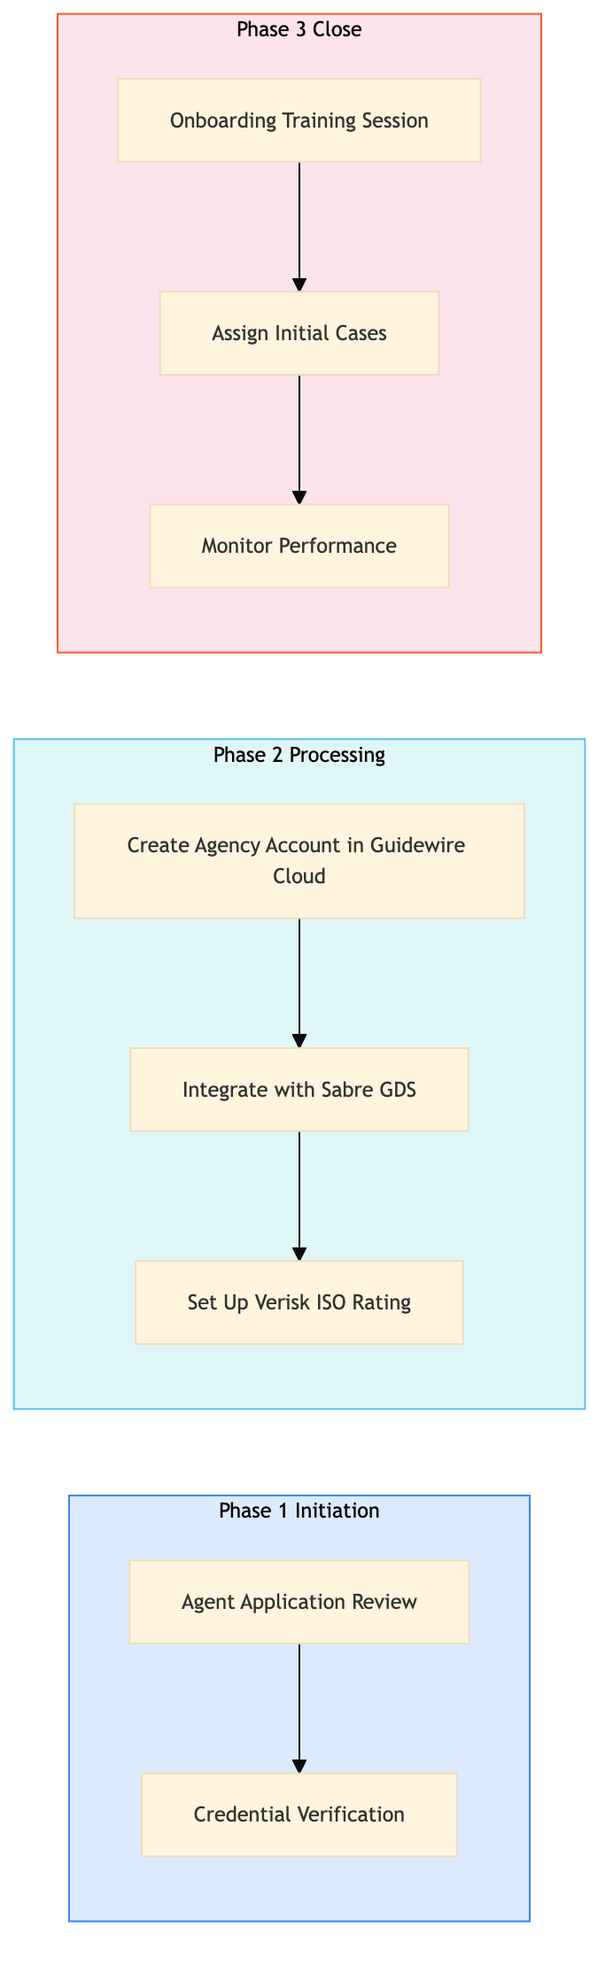
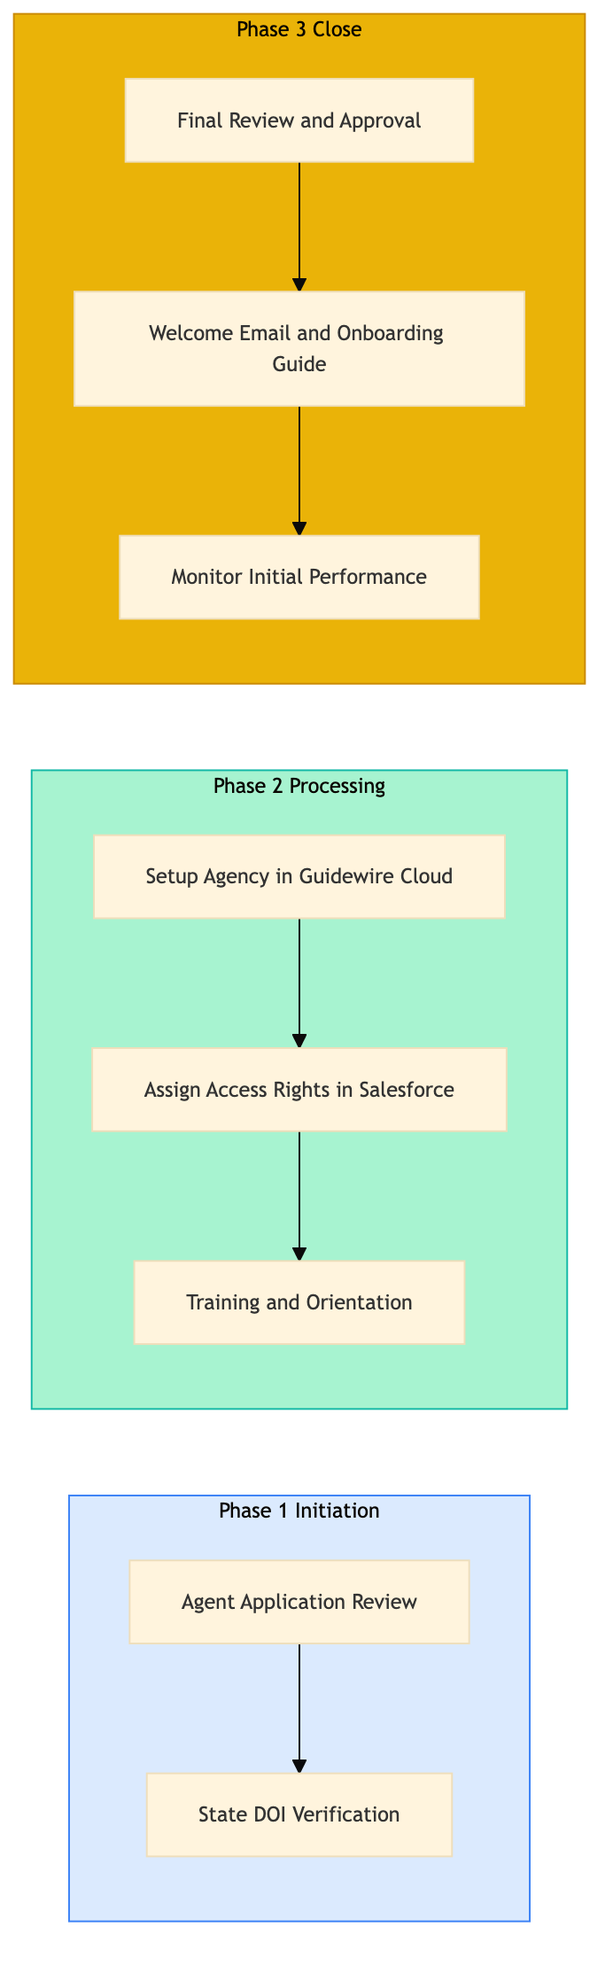
feat: add AAA-IN-AG-01 — Licensed Agent Appointment and Onboarding

diff --git a/aaa-insurance/agency-operations/aaa-in-ag-01.html b/aaa-insurance/agency-operations/aaa-in-ag-01.html
@@ -23,40 +23,16 @@
     <div class="nav-l2-group">
       <a class="nav-l2-title" href="../../shared-membership/membership-enrolment/index.html">Membership Enrolment & Sales</a>
       <div class="nav-l3-list">
-        <a class="nav-l3" href="../../shared-membership/membership-enrolment/shared-mb-en-01.html">SHARED-MB-EN-01 &mdash; New Member Walk-In Enrolment (Branch)</a>
-        <a class="nav-l3" href="../../shared-membership/membership-enrolment/shared-mb-en-02.html">SHARED-MB-EN-02 &mdash; Online Membership Self-Enrolment (Web/Ap</a>
-        <a class="nav-l3" href="../../shared-membership/membership-enrolment/shared-mb-en-03.html">SHARED-MB-EN-03 &mdash; Phone Enrolment via Contact Centre</a>
-        <a class="nav-l3" href="../../shared-membership/membership-enrolment/shared-mb-en-04.html">SHARED-MB-EN-04 &mdash; Affiliate and Employer Group Enrolment</a>
-        <a class="nav-l3" href="../../shared-membership/membership-enrolment/shared-mb-en-05.html">SHARED-MB-EN-05 &mdash; Membership Tier Selection and Upsell</a>
-        <a class="nav-l3" href="../../shared-membership/membership-enrolment/shared-mb-en-06.html">SHARED-MB-EN-06 &mdash; Payment Processing and First-Year Billin</a>
-        <a class="nav-l3" href="../../shared-membership/membership-enrolment/shared-mb-en-07.html">SHARED-MB-EN-07 &mdash; Welcome Kit and Digital Card Issuance</a>
-        <a class="nav-l3" href="../../shared-membership/membership-enrolment/shared-mb-en-08.html">SHARED-MB-EN-08 &mdash; Duplicate Member Detection and Merge</a>
       </div>
     </div>
     <div class="nav-l2-group">
       <a class="nav-l2-title" href="../../shared-membership/membership-renewal/index.html">Membership Renewal & Retention</a>
       <div class="nav-l3-list">
-        <a class="nav-l3" href="../../shared-membership/membership-renewal/shared-mb-rn-01.html">SHARED-MB-RN-01 &mdash; Annual Renewal Notice Generation and Dis</a>
-        <a class="nav-l3" href="../../shared-membership/membership-renewal/shared-mb-rn-02.html">SHARED-MB-RN-02 &mdash; Auto-Renewal Processing (Credit Card on </a>
-        <a class="nav-l3" href="../../shared-membership/membership-renewal/shared-mb-rn-03.html">SHARED-MB-RN-03 &mdash; Lapsed Member Reinstatement Campaign</a>
-        <a class="nav-l3" href="../../shared-membership/membership-renewal/shared-mb-rn-04.html">SHARED-MB-RN-04 &mdash; Membership Upgrade and Tier Change Proce</a>
-        <a class="nav-l3" href="../../shared-membership/membership-renewal/shared-mb-rn-05.html">SHARED-MB-RN-05 &mdash; Associate and Household Member Add-On Pr</a>
-        <a class="nav-l3" href="../../shared-membership/membership-renewal/shared-mb-rn-06.html">SHARED-MB-RN-06 &mdash; Cancellation Request Handling and Save O</a>
-        <a class="nav-l3" href="../../shared-membership/membership-renewal/shared-mb-rn-07.html">SHARED-MB-RN-07 &mdash; Renewal Rate Review and Pricing Update</a>
-        <a class="nav-l3" href="../../shared-membership/membership-renewal/shared-mb-rn-08.html">SHARED-MB-RN-08 &mdash; Membership Winback Campaign (12-36 Month</a>
       </div>
     </div>
     <div class="nav-l2-group">
       <a class="nav-l2-title" href="../../shared-membership/member-services/index.html">Member Services & Benefits</a>
       <div class="nav-l3-list">
-        <a class="nav-l3" href="../../shared-membership/member-services/shared-mb-sv-01.html">SHARED-MB-SV-01 &mdash; Member Discount Partner Redemption</a>
-        <a class="nav-l3" href="../../shared-membership/member-services/shared-mb-sv-02.html">SHARED-MB-SV-02 &mdash; Passport Photo Service Delivery (Branch)</a>
-        <a class="nav-l3" href="../../shared-membership/member-services/shared-mb-sv-03.html">SHARED-MB-SV-03 &mdash; International Driving Permit (IDP) Proce</a>
-        <a class="nav-l3" href="../../shared-membership/member-services/shared-mb-sv-04.html">SHARED-MB-SV-04 &mdash; Notary and Document Authentication Servi</a>
-        <a class="nav-l3" href="../../shared-membership/member-services/shared-mb-sv-05.html">SHARED-MB-SV-05 &mdash; Member Portal Profile and Preferences Ma</a>
-        <a class="nav-l3" href="../../shared-membership/member-services/shared-mb-sv-06.html">SHARED-MB-SV-06 &mdash; Lost and Stolen Membership Card Replacem</a>
-        <a class="nav-l3" href="../../shared-membership/member-services/shared-mb-sv-07.html">SHARED-MB-SV-07 &mdash; Member Data Privacy Request (CCPA and PI</a>
-        <a class="nav-l3" href="../../shared-membership/member-services/shared-mb-sv-08.html">SHARED-MB-SV-08 &mdash; Member Satisfaction Survey and NPS Track</a>
       </div>
     </div>
   </div>
@@ -304,7 +280,7 @@
           <span class="pid-badge org-badge-aaa">AAA</span>
           AAA-IN-AG-01 &mdash; Licensed Agent Appointment and Onboarding
         </h1>
-        <p>This process outlines the steps for appointing and onboarding licensed agents within AAA Northeast. It involves verifying agent credentials, setting up agency accounts in Guidewire Cloud, and integrating with other systems like Sabre GDS and Verisk ISO rating.</p>
+        <p>The process for appointing and onboarding licensed agents within AAA Northeast involves verifying agent credentials, setting up agency records in Guidewire Cloud, and ensuring compliance with state insurance regulations.</p>
       </div>
 
       <!-- BPMN Diagram -->
@@ -330,10 +306,10 @@
             <tr><th>L1 Domain</th><td>AAA Insurance</td></tr>
             <tr><th>L2 Process</th><td>Insurance Agency Operations</td></tr>
             <tr><th>L3 Name</th><td>Licensed Agent Appointment and Onboarding</td></tr>
-            <tr><th>Trigger</th><td>A request from a potential agent to be appointed or an internal decision to onboard a new agent.</td></tr>
-            <tr><th>Outcome</th><td>Successful completion results in the licensed agent being fully integrated into AAA Northeast's operations, with access to necessary systems and processes for conducting business.</td></tr>
-            <tr><th>Org Notes</th><td>AAA Northeast focuses on state DOI compliance and utilizes Guidewire Cloud extensively. The process is more streamlined compared to CAA due to differences in regulatory requirements and system configurations.</td></tr>
-            <tr><th>Systems</th><td><span class="sys-tag guidewire">Guidewire PolicyCenter/ClaimCenter/BillingCenter (Cloud)</span> <span class="sys-tag salesforce">Salesforce (Einstein AI, Agentforce)</span> <span class="sys-tag sabre">Sabre GDS</span> <span class="sys-tag verisk">Verisk ISO rating</span></td></tr>
+            <tr><th>Trigger</th><td>Submission of a new agent application by an individual or through an existing agency.</td></tr>
+            <tr><th>Outcome</th><td>A fully onboarded licensed agent with access to necessary systems and processes for conducting business within AAA Northeast.</td></tr>
+            <tr><th>Org Notes</th><td>AAA Northeast focuses on direct agent appointments and uses the Guidewire Cloud platform extensively, whereas CAA may have different workflows involving more centralized management of agents.</td></tr>
+            <tr><th>Systems</th><td><span class="sys-tag guidewire">Guidewire PolicyCenter/ClaimCenter/BillingCenter</span> <span class="sys-tag salesforce">Salesforce</span> <span class="sys-tag sys-generic">State DOI API</span> <span class="sys-tag sys-generic">IT Systems</span></td></tr>
           </table>
         </div>
       </div>
@@ -355,98 +331,98 @@
         <tr>
           <td class="step-num">1.1</td>
           <td>Agent Application Review</td>
-          <td>Agent Recruitment Specialist</td>
-          <td><span class="sys-tag salesforce">Salesforce (Einstein AI, Agentforce)</span></td>
-          <td>Agent application form</td>
+          <td>Insurance Compliance Officer</td>
+          <td><span class="sys-tag salesforce">Salesforce</span></td>
+          <td>New agent application form</td>
           <td>Application review report</td>
-          <td>Application review time < 3 business days</td>
-          <td>Delays in application processing</td>
+          <td>Application review time < 5 business days</td>
+          <td>Delays in processing applications due to manual reviews.</td>
           <td><span class="decision-y">Y</span></td>
           <td>N</td>
         </tr>
         <tr>
           <td class="step-num">1.2</td>
-          <td>Credential Verification</td>
-          <td>Agent Compliance Officer</td>
-          <td><span class="sys-tag sys-generic">State DOI database</span></td>
-          <td>Application review report</td>
-          <td>Verification report</td>
-          <td>Credential verification time < 5 business days</td>
-          <td>Inaccurate or delayed credential checks</td>
+          <td>State DOI Verification</td>
+          <td>Insurance Compliance Officer</td>
+          <td><span class="sys-tag sys-generic">State DOI API</span></td>
+          <td>Agent license details</td>
+          <td>Verification status report</td>
+          <td>95% successful verification rate within 3 business days</td>
+          <td>Inaccurate or outdated state license data.</td>
           <td><span class="decision-y">Y</span></td>
           <td>N</td>
         </tr>
         <tr>
           <td class="step-num">2.1</td>
-          <td>Create Agency Account in Guidewire Cloud</td>
+          <td>Setup Agency in Guidewire Cloud</td>
           <td>IT Administrator</td>
-          <td><span class="sys-tag guidewire">Guidewire PolicyCenter/ClaimCenter/BillingCenter (Cloud)</span></td>
-          <td>Verification report</td>
-          <td>Agency account setup confirmation</td>
-          <td>Account creation time < 2 business days</td>
-          <td>System integration issues</td>
+          <td><span class="sys-tag guidewire">Guidewire PolicyCenter/ClaimCenter/BillingCenter</span></td>
+          <td>Verified agent details</td>
+          <td>Agency record setup in Guidewire</td>
+          <td>100% successful agency setup within 2 business days</td>
+          <td>Technical issues during system integration.</td>
           <td>N</td>
           <td><span class="exception-y">Y</span></td>
         </tr>
         <tr>
           <td class="step-num">2.2</td>
-          <td>Integrate with Sabre GDS</td>
+          <td>Assign Access Rights in Salesforce</td>
           <td>IT Administrator</td>
-          <td><span class="sys-tag sabre">Sabre GDS</span></td>
-          <td>Agency account setup confirmation</td>
-          <td>Integration success message</td>
-          <td>Integration time < 1 business day</td>
-          <td>Data synchronization errors</td>
+          <td><span class="sys-tag salesforce">Salesforce</span></td>
+          <td>Agent details and role assignments</td>
+          <td>Access rights configured in Salesforce</td>
+          <td>100% successful access assignment within 1 business day</td>
+          <td>Security breaches due to improper access management.</td>
           <td>N</td>
           <td><span class="exception-y">Y</span></td>
         </tr>
         <tr>
           <td class="step-num">2.3</td>
-          <td>Set Up Verisk ISO Rating</td>
-          <td>Risk Analyst</td>
-          <td><span class="sys-tag verisk">Verisk ISO rating</span></td>
-          <td>Agency account setup confirmation</td>
-          <td>Rating configuration report</td>
-          <td>Rating setup time < 1 business day</td>
-          <td>Inaccurate rating calculations</td>
+          <td>Training and Orientation</td>
+          <td>Agent Training Coordinator</td>
+          <td><span class="sys-tag salesforce">Salesforce Einstein AI, Agentforce</span></td>
+          <td>Agent profile and training materials</td>
+          <td>Training completion certificate</td>
+          <td>90% agent satisfaction with training program</td>
+          <td>Low engagement in training sessions.</td>
           <td>N</td>
           <td><span class="exception-y">Y</span></td>
         </tr>
         <tr>
           <td class="step-num">3.1</td>
-          <td>Onboarding Training Session</td>
-          <td>Agent Trainer</td>
-          <td><span class="sys-tag salesforce">Salesforce (Einstein AI, Agentforce)</span></td>
-          <td>Integration success message</td>
-          <td>Training completion certificate</td>
-          <td>Training session duration < 4 hours</td>
-          <td>Low training attendance</td>
+          <td>Final Review and Approval</td>
+          <td>Regional Manager</td>
+          <td><span class="sys-tag guidewire">Guidewire PolicyCenter/ClaimCenter/BillingCenter, Salesforce</span></td>
+          <td>Training completion certificate and agency setup details</td>
+          <td>Onboarding approval letter</td>
+          <td>100% successful onboarding approvals within 2 business days</td>
+          <td>Delays in final approvals due to administrative bottlenecks.</td>
           <td>N</td>
           <td><span class="exception-y">Y</span></td>
         </tr>
         <tr>
           <td class="step-num">3.2</td>
-          <td>Assign Initial Cases</td>
-          <td>Claims Adjuster</td>
-          <td><span class="sys-tag guidewire">Guidewire ClaimCenter</span></td>
-          <td>Training completion certificate</td>
-          <td>Case assignment confirmation</td>
-          <td>Initial case assignment within 1 business day</td>
-          <td>Overloaded caseload for new agents</td>
+          <td>Welcome Email and Onboarding Guide</td>
+          <td>Agent Support Specialist</td>
+          <td><span class="sys-tag salesforce">Salesforce, Email Marketing System</span></td>
+          <td>Onboarding approval letter</td>
+          <td>Sent welcome email with onboarding guide</td>
+          <td>95% open rate for welcome emails within 1 business day</td>
+          <td>Low engagement from new agents post-onboarding.</td>
           <td>N</td>
           <td><span class="exception-y">Y</span></td>
         </tr>
         <tr>
           <td class="step-num">3.3</td>
-          <td>Monitor Performance</td>
-          <td>Agent Manager</td>
-          <td><span class="sys-tag guidewire">Guidewire PolicyCenter/ClaimCenter/BillingCenter (Cloud)</span></td>
-          <td>Case assignment confirmation</td>
-          <td>Performance report</td>
-          <td>First case closure within 7 days of assignment</td>
-          <td>Slow initial performance</td>
+          <td>Monitor Initial Performance</td>
+          <td>Agent Performance Analyst</td>
+          <td><span class="sys-tag guidewire">Guidewire PolicyCenter/ClaimCenter/BillingCenter, Salesforce</span></td>
+          <td>Onboarding approval letter</td>
+          <td>Performance metrics report</td>
+          <td>90% agent performance targets met within first month</td>
+          <td>Underperformance of new agents affecting overall business outcomes.</td>
+          <td><span class="decision-y">Y</span></td>
           <td>N</td>
-          <td><span class="exception-y">Y</span></td>
         </tr>
               </tbody>
             </table>
@@ -459,9 +435,9 @@
         <div class="card-header">&#x1F4CA; KPIs &amp; Risk Register</div>
         <div class="card-body">
           <p class="mb-8"><strong>KPIs</strong></p>
-          <div class="kpi-list mb-8"><span class="kpi-pill">Application review time < 3 business days</span> <span class="kpi-pill">Credential verification time < 5 business days</span> <span class="kpi-pill">Account creation time < 2 business days</span> <span class="kpi-pill">Integration time < 1 business day</span> <span class="kpi-pill">Rating setup time < 1 business day</span></div>
+          <div class="kpi-list mb-8"><span class="kpi-pill">Application review time < 5 business days</span> <span class="kpi-pill">95% successful verification rate within 3 business days</span> <span class="kpi-pill">100% successful agency setup within 2 business days</span> <span class="kpi-pill">100% successful access assignment within 1 business day</span> <span class="kpi-pill">90% agent satisfaction with training program</span></div>
           <p class="mb-8" style="margin-top:16px"><strong>Key Risks</strong></p>
-          <div class="kpi-list"><span class="risk-pill">Delays in application processing</span> <span class="risk-pill">Inaccurate or delayed credential checks</span> <span class="risk-pill">System integration issues</span> <span class="risk-pill">Data synchronization errors</span> <span class="risk-pill">Low training attendance</span></div>
+          <div class="kpi-list"><span class="risk-pill">Delays in processing applications due to manual reviews.</span> <span class="risk-pill">Inaccurate or outdated state license data.</span> <span class="risk-pill">Technical issues during system integration.</span> <span class="risk-pill">Security breaches due to improper access management.</span> <span class="risk-pill">Low engagement from new agents post-onboarding.</span></div>
         </div>
       </div>
 

diff --git a/aaa-insurance/agency-operations/index.html b/aaa-insurance/agency-operations/index.html
@@ -21,40 +21,16 @@
     <div class="nav-l2-group">
       <a class="nav-l2-title" href="../../shared-membership/membership-enrolment/index.html">Membership Enrolment & Sales</a>
       <div class="nav-l3-list">
-        <a class="nav-l3" href="../../shared-membership/membership-enrolment/shared-mb-en-01.html">SHARED-MB-EN-01 &mdash; New Member Walk-In Enrolment (Branch)</a>
-        <a class="nav-l3" href="../../shared-membership/membership-enrolment/shared-mb-en-02.html">SHARED-MB-EN-02 &mdash; Online Membership Self-Enrolment (Web/Ap</a>
-        <a class="nav-l3" href="../../shared-membership/membership-enrolment/shared-mb-en-03.html">SHARED-MB-EN-03 &mdash; Phone Enrolment via Contact Centre</a>
-        <a class="nav-l3" href="../../shared-membership/membership-enrolment/shared-mb-en-04.html">SHARED-MB-EN-04 &mdash; Affiliate and Employer Group Enrolment</a>
-        <a class="nav-l3" href="../../shared-membership/membership-enrolment/shared-mb-en-05.html">SHARED-MB-EN-05 &mdash; Membership Tier Selection and Upsell</a>
-        <a class="nav-l3" href="../../shared-membership/membership-enrolment/shared-mb-en-06.html">SHARED-MB-EN-06 &mdash; Payment Processing and First-Year Billin</a>
-        <a class="nav-l3" href="../../shared-membership/membership-enrolment/shared-mb-en-07.html">SHARED-MB-EN-07 &mdash; Welcome Kit and Digital Card Issuance</a>
-        <a class="nav-l3" href="../../shared-membership/membership-enrolment/shared-mb-en-08.html">SHARED-MB-EN-08 &mdash; Duplicate Member Detection and Merge</a>
       </div>
     </div>
     <div class="nav-l2-group">
       <a class="nav-l2-title" href="../../shared-membership/membership-renewal/index.html">Membership Renewal & Retention</a>
       <div class="nav-l3-list">
-        <a class="nav-l3" href="../../shared-membership/membership-renewal/shared-mb-rn-01.html">SHARED-MB-RN-01 &mdash; Annual Renewal Notice Generation and Dis</a>
-        <a class="nav-l3" href="../../shared-membership/membership-renewal/shared-mb-rn-02.html">SHARED-MB-RN-02 &mdash; Auto-Renewal Processing (Credit Card on </a>
-        <a class="nav-l3" href="../../shared-membership/membership-renewal/shared-mb-rn-03.html">SHARED-MB-RN-03 &mdash; Lapsed Member Reinstatement Campaign</a>
-        <a class="nav-l3" href="../../shared-membership/membership-renewal/shared-mb-rn-04.html">SHARED-MB-RN-04 &mdash; Membership Upgrade and Tier Change Proce</a>
-        <a class="nav-l3" href="../../shared-membership/membership-renewal/shared-mb-rn-05.html">SHARED-MB-RN-05 &mdash; Associate and Household Member Add-On Pr</a>
-        <a class="nav-l3" href="../../shared-membership/membership-renewal/shared-mb-rn-06.html">SHARED-MB-RN-06 &mdash; Cancellation Request Handling and Save O</a>
-        <a class="nav-l3" href="../../shared-membership/membership-renewal/shared-mb-rn-07.html">SHARED-MB-RN-07 &mdash; Renewal Rate Review and Pricing Update</a>
-        <a class="nav-l3" href="../../shared-membership/membership-renewal/shared-mb-rn-08.html">SHARED-MB-RN-08 &mdash; Membership Winback Campaign (12-36 Month</a>
       </div>
     </div>
     <div class="nav-l2-group">
       <a class="nav-l2-title" href="../../shared-membership/member-services/index.html">Member Services & Benefits</a>
       <div class="nav-l3-list">
-        <a class="nav-l3" href="../../shared-membership/member-services/shared-mb-sv-01.html">SHARED-MB-SV-01 &mdash; Member Discount Partner Redemption</a>
-        <a class="nav-l3" href="../../shared-membership/member-services/shared-mb-sv-02.html">SHARED-MB-SV-02 &mdash; Passport Photo Service Delivery (Branch)</a>
-        <a class="nav-l3" href="../../shared-membership/member-services/shared-mb-sv-03.html">SHARED-MB-SV-03 &mdash; International Driving Permit (IDP) Proce</a>
-        <a class="nav-l3" href="../../shared-membership/member-services/shared-mb-sv-04.html">SHARED-MB-SV-04 &mdash; Notary and Document Authentication Servi</a>
-        <a class="nav-l3" href="../../shared-membership/member-services/shared-mb-sv-05.html">SHARED-MB-SV-05 &mdash; Member Portal Profile and Preferences Ma</a>
-        <a class="nav-l3" href="../../shared-membership/member-services/shared-mb-sv-06.html">SHARED-MB-SV-06 &mdash; Lost and Stolen Membership Card Replacem</a>
-        <a class="nav-l3" href="../../shared-membership/member-services/shared-mb-sv-07.html">SHARED-MB-SV-07 &mdash; Member Data Privacy Request (CCPA and PI</a>
-        <a class="nav-l3" href="../../shared-membership/member-services/shared-mb-sv-08.html">SHARED-MB-SV-08 &mdash; Member Satisfaction Survey and NPS Track</a>
       </div>
     </div>
   </div>
@@ -106,13 +82,6 @@
     <div class="nav-l2-group open">
       <a class="nav-l2-title" href="../../aaa-insurance/agency-operations/index.html">Insurance Agency Operations</a>
       <div class="nav-l3-list">
-        <a class="nav-l3" href="../../aaa-insurance/agency-operations/aaa-in-ag-01.html">AAA-IN-AG-01 &mdash; Licensed Agent Appointment and Onboardin</a>
-        <a class="nav-l3" href="../../aaa-insurance/agency-operations/aaa-in-ag-02.html">AAA-IN-AG-02 &mdash; Agent Continuing Education and License R</a>
-        <a class="nav-l3" href="../../aaa-insurance/agency-operations/aaa-in-ag-03.html">AAA-IN-AG-03 &mdash; Agency Performance Reporting and Scoreca</a>
-        <a class="nav-l3" href="../../aaa-insurance/agency-operations/aaa-in-ag-04.html">AAA-IN-AG-04 &mdash; E and O Compliance Review</a>
-        <a class="nav-l3" href="../../aaa-insurance/agency-operations/aaa-in-ag-05.html">AAA-IN-AG-05 &mdash; Cross-Sell Insurance to Existing AAA Mem</a>
-        <a class="nav-l3" href="../../aaa-insurance/agency-operations/aaa-in-ag-06.html">AAA-IN-AG-06 &mdash; Insurance Lead Management and Pipeline (</a>
-        <a class="nav-l3" href="../../aaa-insurance/agency-operations/aaa-in-ag-07.html">AAA-IN-AG-07 &mdash; Agent Commission Dispute Resolution</a>
       </div>
     </div>
   </div>
@@ -304,20 +273,20 @@
           <a href="../index.html">AAA Insurance</a>
         </div>
         <h1>🛡 Insurance Agency Operations</h1>
-        <p>7 of 8 processes complete</p>
+        <p>0 of 8 processes complete</p>
       </div>
       <div class="card">
         <div class="card-header">Process List</div>
         <div class="card-body">
           <table class="l4-table" style="min-width:500px">
             <thead><tr><th>PID</th><th>L3 Process Name</th><th>Status</th></tr></thead>
-            <tbody><tr><td><a href="aaa-in-ag-01.html">AAA-IN-AG-01</a></td><td>Licensed Agent Appointment and Onboarding</td><td><span style="color:#16a34a;font-weight:700">&#x2705; Complete</span></td></tr>
-<tr><td><a href="aaa-in-ag-02.html">AAA-IN-AG-02</a></td><td>Agent Continuing Education and License Renewal Tracking</td><td><span style="color:#16a34a;font-weight:700">&#x2705; Complete</span></td></tr>
-<tr><td><a href="aaa-in-ag-03.html">AAA-IN-AG-03</a></td><td>Agency Performance Reporting and Scorecard</td><td><span style="color:#16a34a;font-weight:700">&#x2705; Complete</span></td></tr>
-<tr><td><a href="aaa-in-ag-04.html">AAA-IN-AG-04</a></td><td>E and O Compliance Review</td><td><span style="color:#16a34a;font-weight:700">&#x2705; Complete</span></td></tr>
-<tr><td><a href="aaa-in-ag-05.html">AAA-IN-AG-05</a></td><td>Cross-Sell Insurance to Existing AAA Members</td><td><span style="color:#16a34a;font-weight:700">&#x2705; Complete</span></td></tr>
-<tr><td><a href="aaa-in-ag-06.html">AAA-IN-AG-06</a></td><td>Insurance Lead Management and Pipeline (Salesforce)</td><td><span style="color:#16a34a;font-weight:700">&#x2705; Complete</span></td></tr>
-<tr><td><a href="aaa-in-ag-07.html">AAA-IN-AG-07</a></td><td>Agent Commission Dispute Resolution</td><td><span style="color:#16a34a;font-weight:700">&#x2705; Complete</span></td></tr>
+            <tbody><tr><td>AAA-IN-AG-01</td><td>Licensed Agent Appointment and Onboarding</td><td><span style="color:#94a3b8">&#x23F3; Queued</span></td></tr>
+<tr><td>AAA-IN-AG-02</td><td>Agent Continuing Education and License Renewal Tracking</td><td><span style="color:#94a3b8">&#x23F3; Queued</span></td></tr>
+<tr><td>AAA-IN-AG-03</td><td>Agency Performance Reporting and Scorecard</td><td><span style="color:#94a3b8">&#x23F3; Queued</span></td></tr>
+<tr><td>AAA-IN-AG-04</td><td>E and O Compliance Review</td><td><span style="color:#94a3b8">&#x23F3; Queued</span></td></tr>
+<tr><td>AAA-IN-AG-05</td><td>Cross-Sell Insurance to Existing AAA Members</td><td><span style="color:#94a3b8">&#x23F3; Queued</span></td></tr>
+<tr><td>AAA-IN-AG-06</td><td>Insurance Lead Management and Pipeline (Salesforce)</td><td><span style="color:#94a3b8">&#x23F3; Queued</span></td></tr>
+<tr><td>AAA-IN-AG-07</td><td>Agent Commission Dispute Resolution</td><td><span style="color:#94a3b8">&#x23F3; Queued</span></td></tr>
 <tr><td>AAA-IN-AG-08</td><td>AAA Approved Auto Repair Insurance Referral Process</td><td><span style="color:#94a3b8">&#x23F3; Queued</span></td></tr>
 </tbody>
           </table>

diff --git a/index.html b/index.html
@@ -76,6 +76,7 @@
         <a class="nav-l3" href="aaa-insurance/insurance-billing/aaa-in-bi-05.html">AAA-IN-BI-05 &mdash; Agent Commission Calculation and Stateme</a>
         <a class="nav-l3" href="aaa-insurance/insurance-billing/aaa-in-bi-06.html">AAA-IN-BI-06 &mdash; Refund Processing (Cancellation and Over</a>
         <a class="nav-l3" href="aaa-insurance/insurance-billing/aaa-in-bi-07.html">AAA-IN-BI-07 &mdash; Premium Audit (Commercial Lines)</a>
+        <a class="nav-l3" href="aaa-insurance/insurance-billing/aaa-in-bi-08.html">AAA-IN-BI-08 &mdash; Statutory Reserve and Premium Tax Calcul</a>
       </div>
     </div>
     <div class="nav-l2-group">
@@ -272,9 +273,9 @@
       </div>
 
       <div class="stats-bar">
-        <div class="stat-card"><div class="stat-num">25</div><div class="stat-label">Processes Complete</div></div>
+        <div class="stat-card"><div class="stat-num">26</div><div class="stat-label">Processes Complete</div></div>
         <div class="stat-card"><div class="stat-num">268</div><div class="stat-label">Total Processes</div></div>
-        <div class="stat-card"><div class="stat-num">25</div><div class="stat-label">AAA Complete</div></div>
+        <div class="stat-card"><div class="stat-num">26</div><div class="stat-label">AAA Complete</div></div>
         <div class="stat-card"><div class="stat-num caa-red">0</div><div class="stat-label">CAA Complete</div></div>
         <div class="stat-card"><div class="stat-num">0</div><div class="stat-label">Shared Complete</div></div>
       </div>
@@ -294,7 +295,7 @@
         <span class="nav-org-dot aaa" style="display:inline-block;margin-right:4px"></span>
         AAA
       </p>
-      <p class="card-count">25 / 34 processes complete</p>
+      <p class="card-count">26 / 34 processes complete</p>
     </div>
     <div class="domain-card org-caa">
       <h3><a href="caa-insurance/index.html">🍁 CAA Insurance (Ontario)</a></h3>

diff --git a/aaa-insurance/index.html b/aaa-insurance/index.html
@@ -76,6 +76,7 @@
         <a class="nav-l3" href="../aaa-insurance/insurance-billing/aaa-in-bi-05.html">AAA-IN-BI-05 &mdash; Agent Commission Calculation and Stateme</a>
         <a class="nav-l3" href="../aaa-insurance/insurance-billing/aaa-in-bi-06.html">AAA-IN-BI-06 &mdash; Refund Processing (Cancellation and Over</a>
         <a class="nav-l3" href="../aaa-insurance/insurance-billing/aaa-in-bi-07.html">AAA-IN-BI-07 &mdash; Premium Audit (Commercial Lines)</a>
+        <a class="nav-l3" href="../aaa-insurance/insurance-billing/aaa-in-bi-08.html">AAA-IN-BI-08 &mdash; Statutory Reserve and Premium Tax Calcul</a>
       </div>
     </div>
     <div class="nav-l2-group">
@@ -269,7 +270,7 @@
       <div class="page-header">
         <div class="breadcrumb"><a href="../index.html">Home</a></div>
         <h1>🛡 AAA Insurance</h1>
-        <p>25 of 34 processes complete across 4 process groups</p>
+        <p>26 of 34 processes complete across 4 process groups</p>
       </div>
       <div class="domain-grid">    <div class="domain-card org-aaa">
       <h3><a href="insurance-quoting/index.html">Quoting & Underwriting</a></h3>
@@ -281,7 +282,7 @@
     </div>
     <div class="domain-card org-aaa">
       <h3><a href="insurance-billing/index.html">Billing & Premium Management</a></h3>
-      <p class="card-meta">7/8 processes complete</p>
+      <p class="card-meta">8/8 processes complete</p>
     </div>
     <div class="domain-card org-aaa">
       <h3><a href="agency-operations/index.html">Insurance Agency Operations</a></h3>
